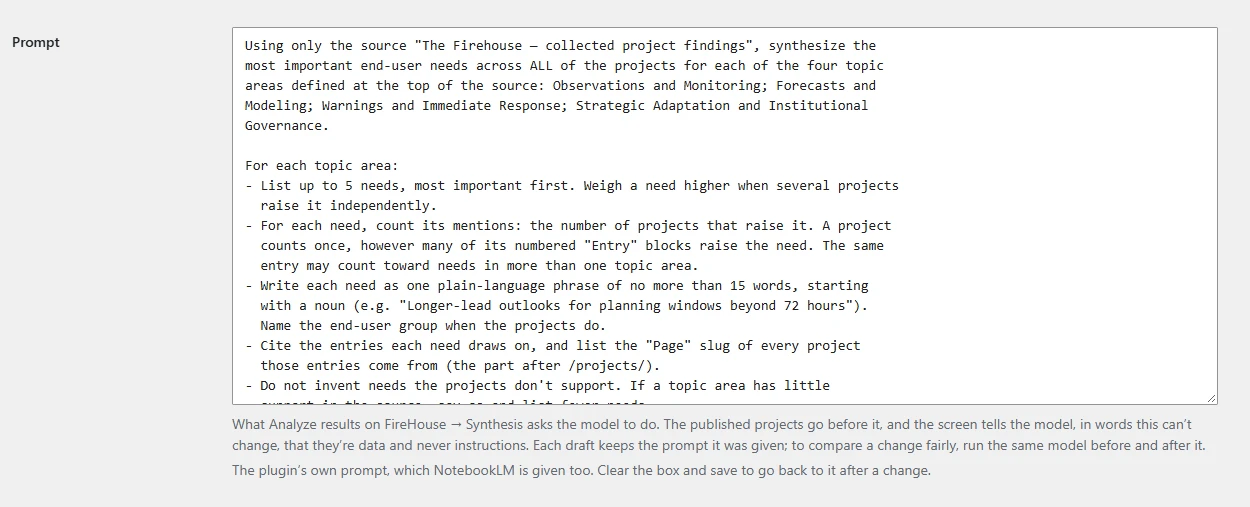
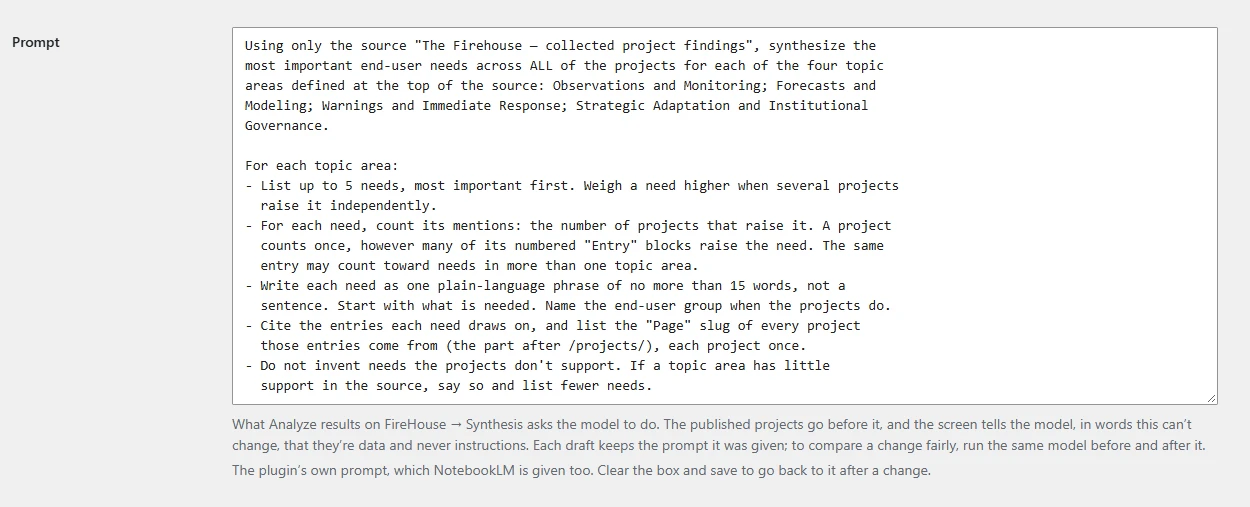
Synthesis prompt: no example need, and each project once (for Stephanie and Emily)
The old prompt's example need, "Longer-lead outlooks for planning windows
beyond 72 hours", came back word for word as the first Forecasts need in all
three Llama 4 Scout runs. The need's line now says what shape to use instead
("not a sentence. Start with what is needed."), since taking the example out
alone had the same model write sentences. "Each project once" matches the
check's refusal of a project named twice. Both copies of the prompt change
together; notebooklm/README.md records the change, why, and the old and new
prompts' runs on the same projects. Waits on Stephanie and Emily's clearance.

Changed region(s): [[0.1872, 0.5325, 0.7176, 0.7692]]

diff --git a/notebooklm/README.md b/notebooklm/README.md
@@ -101,11 +101,10 @@ For each topic area:
 - For each need, count its mentions: the number of projects that raise it. A project
   counts once, however many of its numbered "Entry" blocks raise the need. The same
   entry may count toward needs in more than one topic area.
-- Write each need as one plain-language phrase of no more than 15 words, starting
-  with a noun (e.g. "Longer-lead outlooks for planning windows beyond 72 hours").
-  Name the end-user group when the projects do.
+- Write each need as one plain-language phrase of no more than 15 words, not a
+  sentence. Start with what is needed. Name the end-user group when the projects do.
 - Cite the entries each need draws on, and list the "Page" slug of every project
-  those entries come from (the part after /projects/).
+  those entries come from (the part after /projects/), each project once.
 - Do not invent needs the projects don't support. If a topic area has little
   support in the source, say so and list fewer needs.
 
@@ -123,3 +122,54 @@ Then give the result as JSON in exactly this shape, with no citations inside it:
   { "topic": "governance", "topNeeds": [ ... ] }
 ]
 ```
+
+## Prompt changes
+
+Stephanie and Emily clear every change to the prompt above (CLAUDE.md, "When a person
+decides"). Each change is recorded here: the lines that changed, why, what the old and
+new prompts did with the same projects, and who cleared it, on what text, and when.
+
+### 16 November 2026: the example need, and each project once
+
+**Cleared:** not yet.
+
+Two lines changed; the rest of the prompt is as it was.
+
+| Line | Before | After |
+|---|---|---|
+| The need's shape | Write each need as one plain-language phrase of no more than 15 words, starting with a noun (e.g. "Longer-lead outlooks for planning windows beyond 72 hours"). Name the end-user group when the projects do. | Write each need as one plain-language phrase of no more than 15 words, not a sentence. Start with what is needed. Name the end-user group when the projects do. |
+| The projects | …list the "Page" slug of every project those entries come from (the part after /projects/). | …list the "Page" slug of every project those entries come from (the part after /projects/), each project once. |
+
+Why:
+
+- **The example became a need.** In all three runs with the old prompt, Llama 4 Scout,
+  Analyze results' default model, gave the example word for word as the first
+  Forecasts need, which would have led that area on the site. No project says "beyond
+  72 hours": the one that asks for longer Red Flag Warning lead times asks for 48
+  hours. Each run credited the example to two to four projects, of which at most two
+  mention lead times.
+- **Without an example, the same model wrote sentences.** In a first draft that took
+  the example out and put nothing in its place, Llama 4 Scout wrote 18 of its 20 needs
+  as sentences ("Forecasts include local fuel data"), so the line now says what shape
+  to use instead of showing one.
+- **Each project once.** An earlier gpt-oss-120b run, with the old prompt, listed the
+  same project twice in a need, which the synthesis screen refuses.
+
+What the old and new prompts did, with the same eight published projects, through
+Cloudflare Workers AI on 16 November (NotebookLM wasn't run):
+
+| Model | Prompt | Runs | Example given as a need | Needs written as sentences | Check problems |
+|---|---|---|---|---|---|
+| Llama 4 Scout | before | 3 | 3 runs | none | one run: a wrong slug; one run: an area out of order |
+| Llama 4 Scout | after | 3 | none | none | none |
+| gpt-oss-120b | before | 2 | none | none | one run: one slug shortened, in 5 needs |
+| gpt-oss-120b | after | 2 | none | none | both runs: the same slug shortened, in 6 and 9 needs |
+
+- One gpt-oss-120b run with the new prompt gave 11 needs, two or three an area, instead
+  of five each; the other gave 20.
+- gpt-oss-120b shortens the same long slug under both prompts, and Gemma 4 26B
+  lengthened two from their titles. A sentence telling the model to copy slugs exactly
+  made no difference in a first draft, so it isn't here: the synthesis screen's check
+  catches these names and gives the nearest slug.
+- Gemma 4 26B isn't in the table: with the new prompt it twice ran out of length
+  before finishing its reply.

diff --git a/WORDPRESS-PLAN.md b/WORDPRESS-PLAN.md
@@ -2316,7 +2316,11 @@ hand.
   project by a shortened slug, so the check now gives the nearest page slug for a
   name that isn't a project's (`Synthesis::closest()`), only when no more than a
   third of that slug differs and every other slug is clearly further, and says so
-  when its project isn't published.*
+  when its project isn't published. The prompt's first change takes out its example
+  need, which Llama 4 Scout gave word for word as a need in every run, and asks for
+  each project once, run against the old prompt on both models; it waits on Stephanie
+  and Emily's clearance (`notebooklm/README.md`, "Prompt changes"), who also decide
+  whether needs are short phrases or action sentences, as in their 27 October one.*
 - Site Health checks: outbound reach to doi.org, api.crossref.org, data.crosscite.org
   and the AI service, `noindex` on test, and HTML caching status. *Done: `Site_Health`.
   The test site's check needs `WP_ENVIRONMENT_TYPE` set to `staging` there. The local
